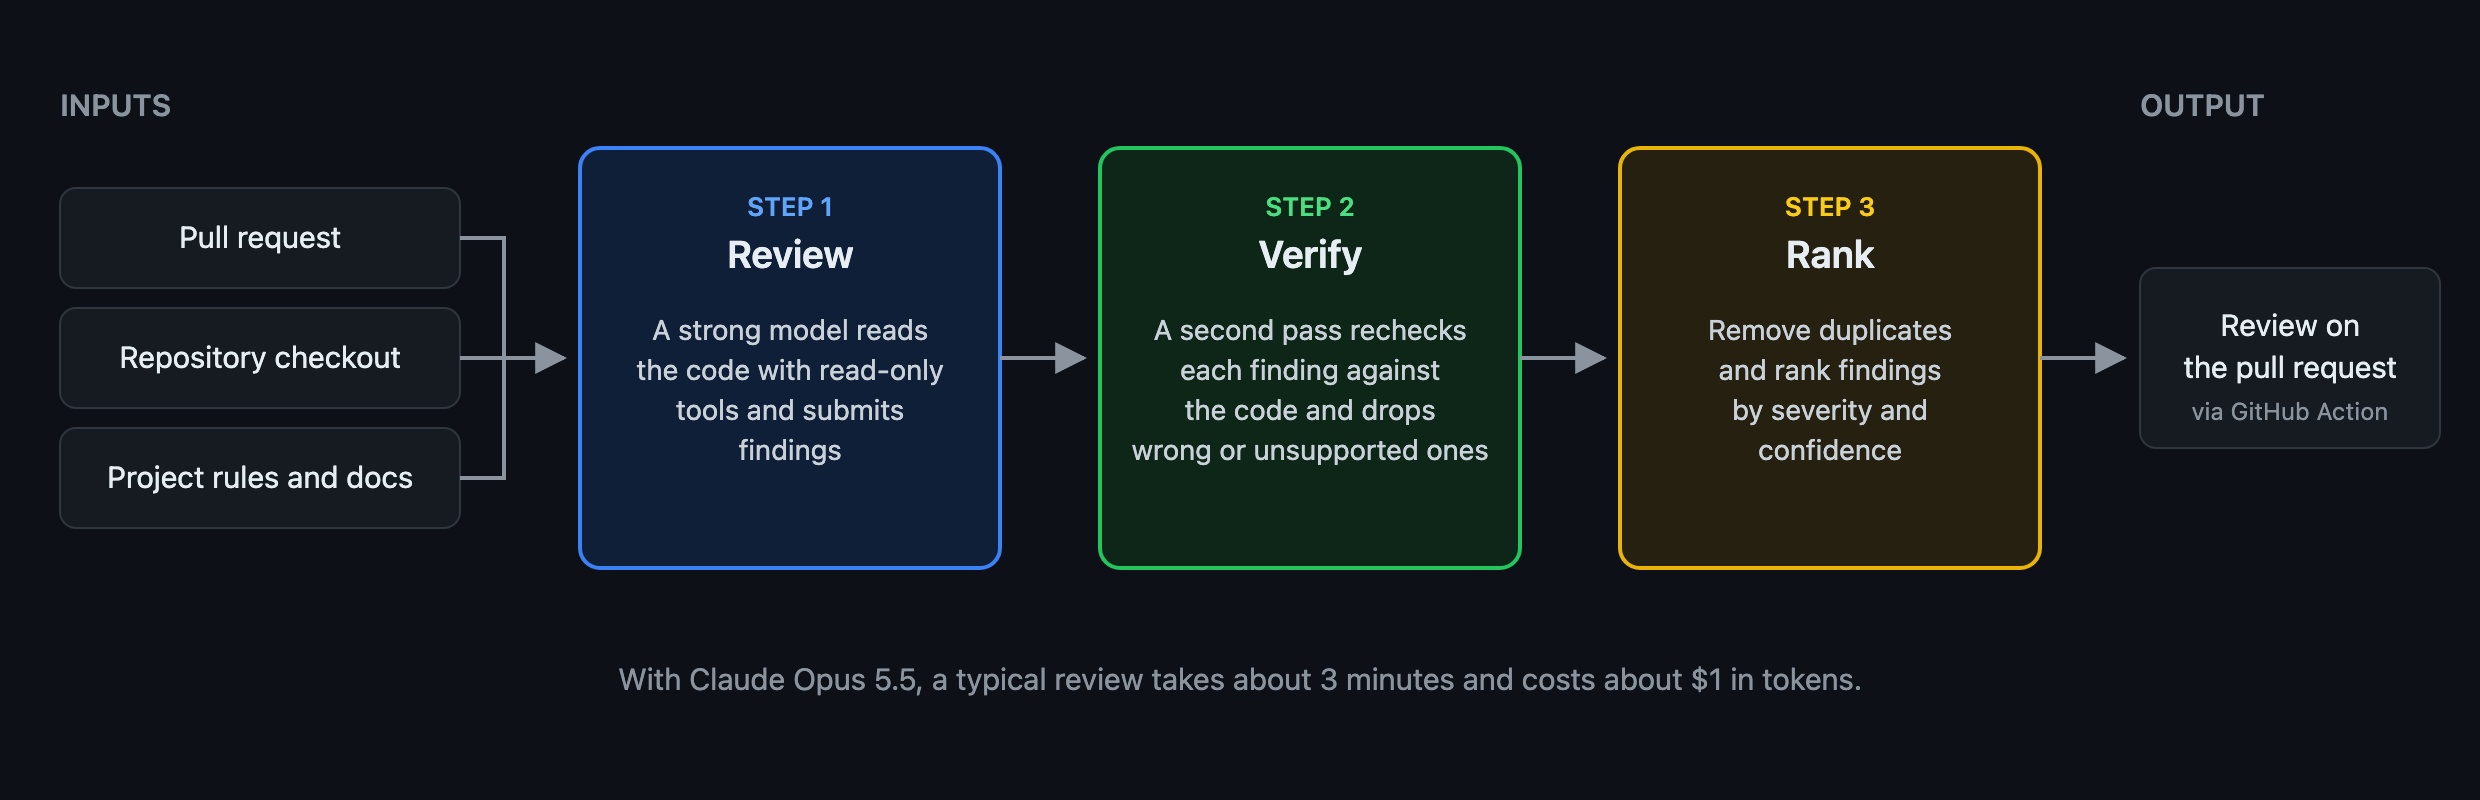
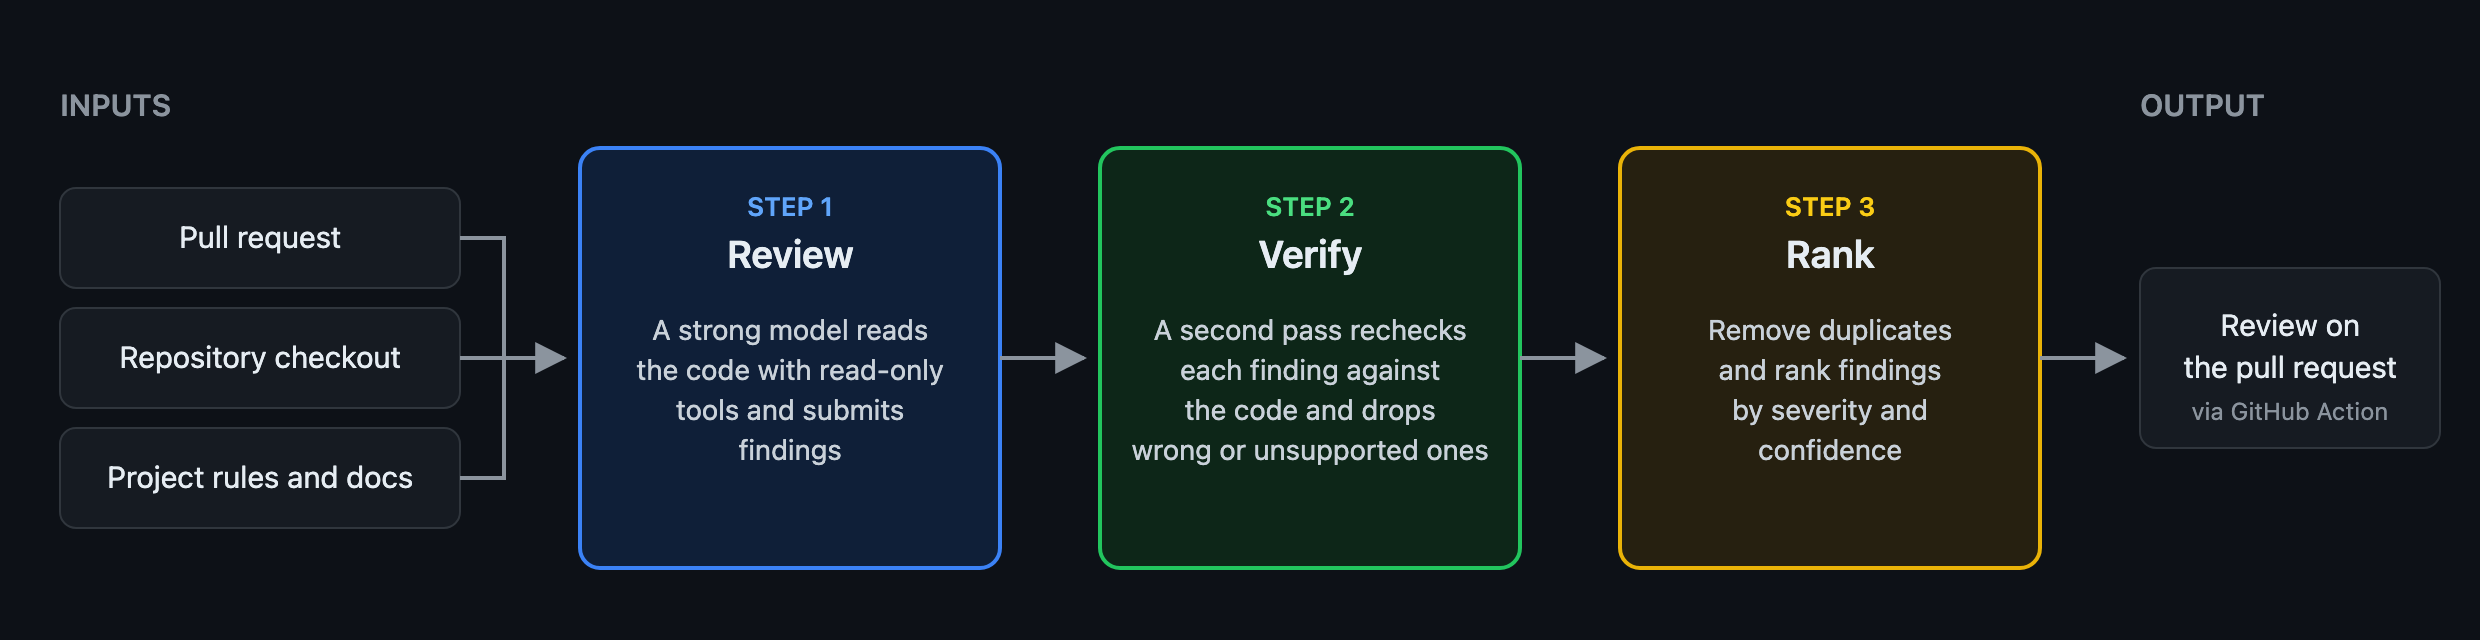
more readme fixes

diff --git a/README.md b/README.md
@@ -5,7 +5,8 @@
 </p>
 
 <p align="center">
-  A code reviewer you can run as a GitHub Action on your own pull requests.
+  A code reviewer you can run as a GitHub Action on your own pull requests.<br>
+  <sub>This is still early work, and the prompts and settings may change.</sub>
 </p>
 
 <p align="center">
@@ -14,11 +15,9 @@
   <a href="https://github.com/laude-institute/headlong/pull/150#pullrequestreview-5529787934">Another example</a>
 </p>
 
-This is still early work, and the prompts and settings may change.
-
 ## Use it
 
-A person with write access starts a review by commenting `/review` on a pull request. The findings come back as one review, with comments on the changed lines and a short summary that opens with merge advice. With Claude Opus 5.5, a typical review takes about 3 minutes and costs about $1 in OpenRouter tokens. See [docs/INSTALL.md](docs/INSTALL.md) to set it up.
+Comment `/review` on a pull request to start a review. The findings come back as one review, with comments on the changed lines and a short summary that opens with merge advice. With Claude Opus 5.5, a typical review takes about 3 minutes and costs about $1 in OpenRouter tokens. See [docs/INSTALL.md](docs/INSTALL.md) to set it up.
 
 ## How it reviews
 
